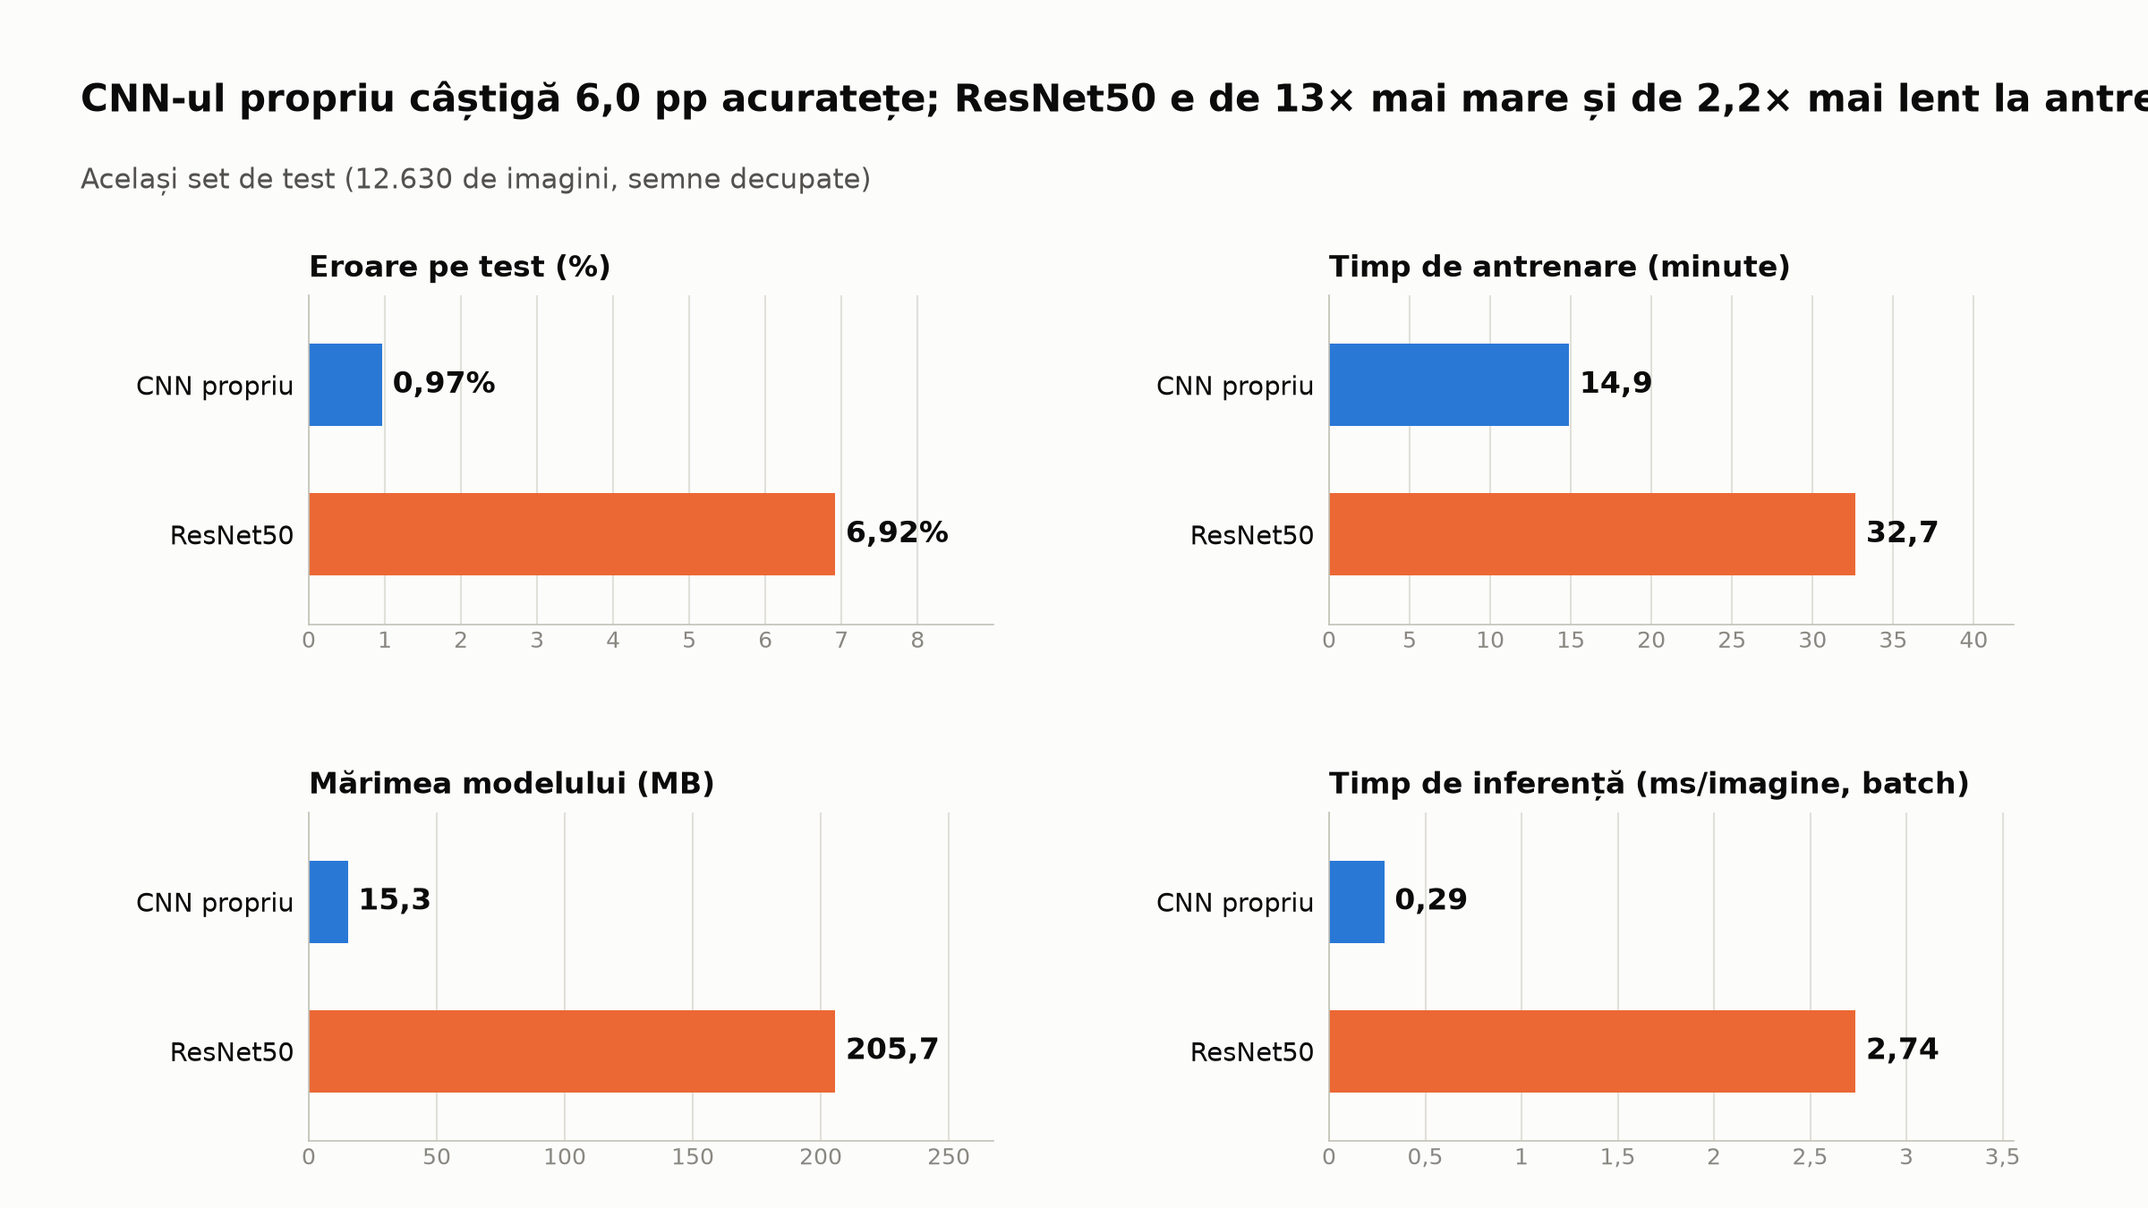
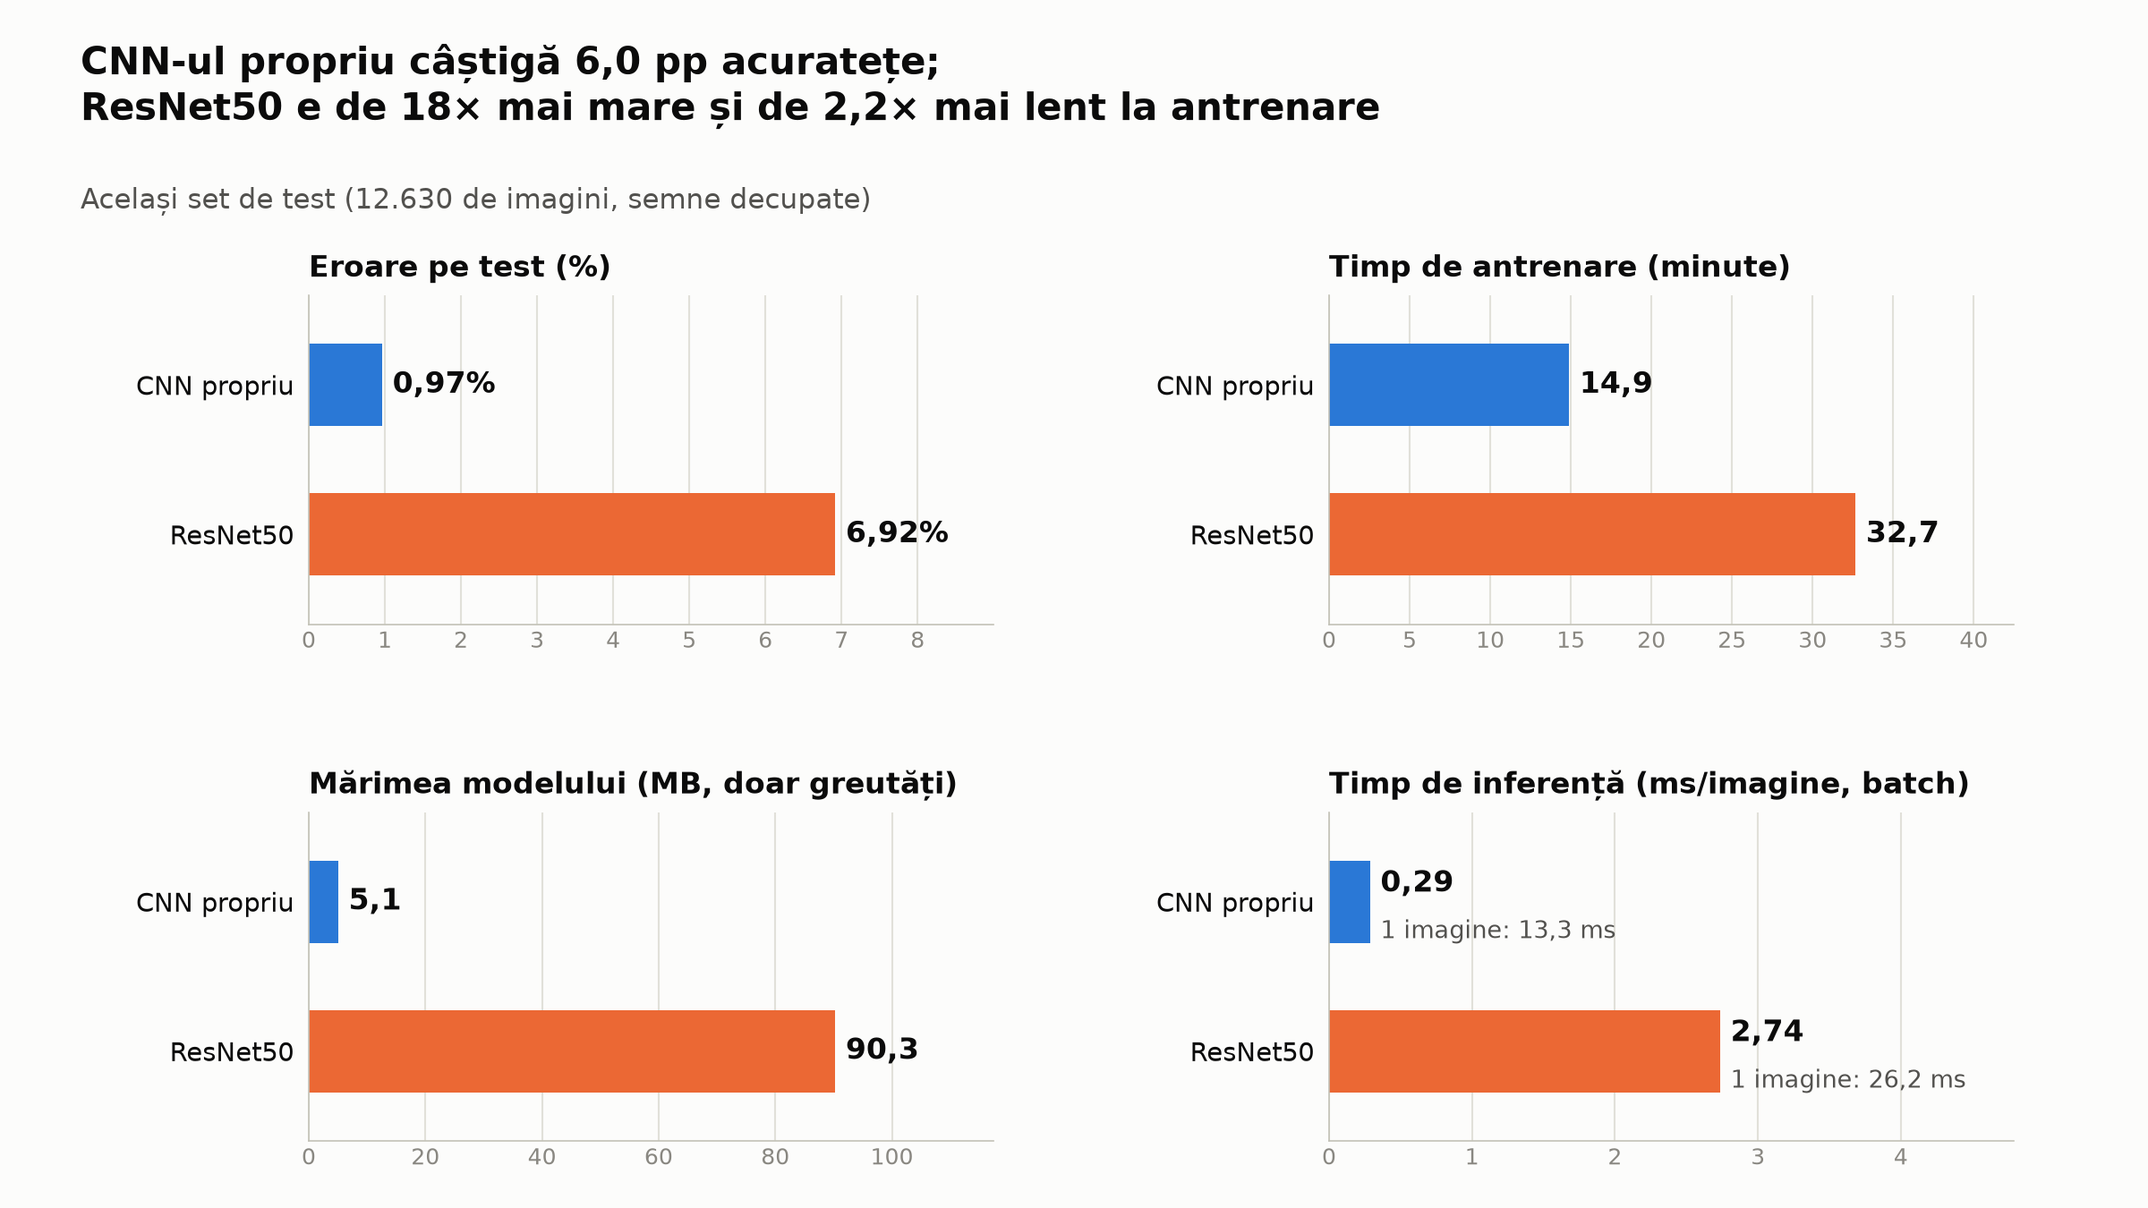
fix: M5 final review (title wrap, weights_mb, stage line in curves, single-image latency, --unfreeze)

diff --git a/src/traffic_signs/comparison.py b/src/traffic_signs/comparison.py
@@ -11,9 +11,9 @@ from matplotlib.ticker import FuncFormatter
 
 from traffic_signs.presentation import BG, BLUE, GRID, INK, INK2, ORANGE, W, H, _save, _style_axes
 
-COLUMNS = ["model", "test_accuracy", "f1_macro", "params", "trainable_params", "model_mb",
-           "train_minutes", "epochs_run", "ms_per_image_batch", "ms_per_image_single"]
-_MB = 1024 * 1024  # mărimea fișierului în MiB
+COLUMNS = ["model", "test_accuracy", "f1_macro", "params", "trainable_params", "weights_mb",
+           "file_mb", "train_minutes", "epochs_run", "ms_per_image_batch", "ms_per_image_single"]
+_MB = 1024 * 1024  # MiB
 _NAMES = {"cnn": "CNN propriu", "resnet": "ResNet50", "resnet50": "ResNet50"}
 
 
@@ -34,7 +34,9 @@ def model_comparison_table(entries: list[dict]) -> pd.DataFrame:
             "f1_macro": metrics["f1_macro"],
             "params": cfg["params"],
             "trainable_params": cfg.get("trainable_params", cfg["params"]),
-            "model_mb": (run_dir / "model.keras").stat().st_size / _MB,
+            "weights_mb": cfg["params"] * 4 / _MB,  # greutăți float32, fără starea optimizatorului
+            # fișierul .keras include și starea Adam (de ~2 ori numărul de greutăți)
+            "file_mb": (run_dir / "model.keras").stat().st_size / _MB,
             "train_minutes": cfg["train_seconds"] / 60,
             "epochs_run": cfg["epochs_run"],
             "ms_per_image_batch": metrics["ms_per_image_batch"],
@@ -74,7 +76,7 @@ def comparison_title(table: pd.DataFrame, cnn_label: str = "cnn",
     else:
         head = f"CNN-ul propriu câștigă {_ro(-diff_pp, dec)} pp acuratețe"
 
-    size = res["model_mb"] / cnn["model_mb"]
+    size = res["weights_mb"] / cnn["weights_mb"]
     time = res["train_minutes"] / cnn["train_minutes"]
     size_txt = (f"e de {_times(size)} mai mare" if size >= 1.05 else
                 f"e de {_times(1 / size)} mai mic" if size <= 1 / 1.05 else "are aceeași mărime")
@@ -91,24 +93,40 @@ def comparison_title(table: pd.DataFrame, cnn_label: str = "cnn",
     return f"{head}; ResNet50 {tail}"
 
 
+def split_title(title: str) -> str:
+    """Rupe titlul pe două rânduri la primul „; ” sau „, ” (concluzia sus, costurile jos)."""
+    for sep in ("; ", ", "):
+        head, found, tail = title.partition(sep)
+        if found:
+            return f"{head}{sep.strip()}\n{tail}"
+    return title
+
+
 PANELS = [
     ("error_pct", "Eroare pe test (%)", lambda v: _ro(v, 2) + "%"),
     ("train_minutes", "Timp de antrenare (minute)", lambda v: _ro(v, 1)),
-    ("model_mb", "Mărimea modelului (MB)", lambda v: _ro(v, 1)),
+    ("weights_mb", "Mărimea modelului (MB, doar greutăți)", lambda v: _ro(v, 1)),
     ("ms_per_image_batch", "Timp de inferență (ms/imagine, batch)", lambda v: _ro(v, 2)),
 ]
 
 
 def plot_cnn_vs_resnet(table: pd.DataFrame, out_path: Path, cnn_label: str = "cnn",
                        resnet_label: str = "resnet") -> None:
+    """Desenează și salvează figura de comparație."""
+    _save(build_comparison_figure(table, cnn_label, resnet_label), out_path)
+
+
+def build_comparison_figure(table: pd.DataFrame, cnn_label: str = "cnn",
+                            resnet_label: str = "resnet"):
     """Patru panouri de bare orizontale, fiecare cu axa ei; rândurile se aleg după etichetă."""
-    title_txt = comparison_title(table, cnn_label, resnet_label)
+    title_txt = split_title(comparison_title(table, cnn_label, resnet_label))
     table = pd.DataFrame([_pick(table, cnn_label), _pick(table, resnet_label)]).reset_index(drop=True)
     table["error_pct"] = (1 - table["test_accuracy"].astype(float)) * 100
     fig = plt.figure(figsize=(W, H), facecolor=BG)
-    fig.text(0.6 / W, 1 - 0.75 / H, title_txt, fontsize=20, fontweight="bold",
-             color=INK, ha="left", va="center")
-    fig.text(0.6 / W, 1 - 1.35 / H, "Același set de test (12.630 de imagini, semne decupate)",
+    title = fig.text(0.6 / W, 1 - 0.3 / H, title_txt, fontsize=20, fontweight="bold",
+                      color=INK, ha="left", va="top", linespacing=1.25)
+    fig.title_text = title  # pentru verificarea în teste că încape în figură
+    fig.text(0.6 / W, 1 - 1.5 / H, "Același set de test (12.630 de imagini, semne decupate)",
              fontsize=15, color=INK2, ha="left", va="center")
     n = len(table)
     names = [_NAMES.get(m, m) for m in table["model"]]
@@ -122,9 +140,16 @@ def plot_cnn_vs_resnet(table: pd.DataFrame, out_path: Path, cnn_label: str = "cn
         vals = table[col].astype(float).tolist()
         ys = list(range(n))[::-1]
         ax.barh(ys, vals, height=0.55, color=colors, zorder=2)
-        top = max(vals) * 1.3 if max(vals) > 0 else 1
+        top = max(vals) * (1.75 if col == "ms_per_image_batch" else 1.3) if max(vals) > 0 else 1
         ax.xaxis.set_major_formatter(FuncFormatter(lambda v, _: _ro(v, 0 if v == int(v) else 1)))
-        for y, v in zip(ys, vals):
+        single = table["ms_per_image_single"].astype(float).tolist()
+        for k, (y, v) in enumerate(zip(ys, vals)):
+            if col == "ms_per_image_batch":  # sub valoare: latența pe o singură imagine
+                ax.text(v + top * 0.015, y + 0.12, fmt(v), fontsize=16, fontweight="bold",
+                        color=INK, ha="left", va="center", zorder=3)
+                ax.text(v + top * 0.015, y - 0.2, f"1 imagine: {_ro(single[k], 1)} ms",
+                        fontsize=13, color=INK2, ha="left", va="center", zorder=3)
+                continue
             ax.text(v + top * 0.015, y, fmt(v), fontsize=16, fontweight="bold", color=INK,
                     ha="left", va="center", zorder=3)
         ax.set_yticks(ys, names)
@@ -134,4 +159,4 @@ def plot_cnn_vs_resnet(table: pd.DataFrame, out_path: Path, cnn_label: str = "cn
         ax.xaxis.grid(True, color=GRID, lw=1, zorder=0)
         ax.tick_params(axis="x", labelsize=12)
         ax.set_title(title, fontsize=16, fontweight="bold", color=INK, loc="left", pad=10)
-    _save(fig, out_path)
+    return fig

diff --git a/scripts/evaluate.py b/scripts/evaluate.py
@@ -1,4 +1,8 @@
-"""Evalueaza un run pe setul de test; scrie rezultatele in runs/<nume> si reports/m4/<nume>."""
+"""Evalueaza un run pe setul de test; scrie rezultatele in runs/<nume> si <out>/<nume>.
+
+<out> se alege cu --out (implicit reports/m4; pentru ResNet50 se foloseste reports/m5).
+Cu --curves-only se regenereaza doar curbele de antrenare, fara reevaluare.
+"""
 import argparse
 import json
 import shutil
@@ -38,6 +42,23 @@ def ms_per_image_single(model, df, crop: bool, image_size: int, count: int = 50)
     return (time.perf_counter() - start) / len(images) * 1000
 
 
+# Nume afisabile pentru titlul curbelor; fallback pe id-ul run-ului
+DISPLAY_NAMES = {"resnet50": "ResNet50", "baseline": "CNN propriu — de bază",
+                 "no_reg": "CNN propriu — fără regularizare",
+                 "no_crop": "CNN propriu — fără decupare"}
+
+
+def curves_title(run_name: str) -> str:
+    return f"Curbe de antrenare: {DISPLAY_NAMES.get(run_name, run_name)}"
+
+
+def write_curves(run_dir, out_dir, run_name: str) -> None:
+    """Deseneaza curbele din history.csv in run_dir si le copiaza in out_dir."""
+    plot_history(load_history(run_dir), run_dir / "curves.png", curves_title(run_name))
+    out_dir.mkdir(parents=True, exist_ok=True)
+    shutil.copy2(run_dir / "curves.png", out_dir / "curves.png")
+
+
 def main() -> None:
     parser = argparse.ArgumentParser(description=__doc__)
     parser.add_argument("--run-name", required=True)
@@ -45,6 +66,8 @@ def main() -> None:
                         help="evalueaza pe imagini nedecupate")
     parser.add_argument("--out", default="reports/m4",
                         help="folder (relativ la radacina proiectului) pentru rezultate")
+    parser.add_argument("--curves-only", action="store_true",
+                        help="regenereaza doar curves.png (fara reevaluare)")
     args = parser.parse_args()
 
     run_dir = config.PROJECT_ROOT / "runs" / args.run_name
@@ -52,6 +75,10 @@ def main() -> None:
         sys.exit(f"Eroare: rularea '{args.run_name}' este incompletă "
                  f"(lipsește config.json sau model.keras în {run_dir}). "
                  "Antrenarea a fost probabil întreruptă; rulați-o din nou.")
+    if args.curves_only:
+        write_curves(run_dir, config.PROJECT_ROOT / args.out / args.run_name, args.run_name)
+        print(f"curbe salvate in {run_dir} si {config.PROJECT_ROOT / args.out / args.run_name}")
+        return
     run_cfg = json.loads((run_dir / "config.json").read_text(encoding="utf-8"))
     trained_crop = not run_cfg.get("no_crop", False)
     crop = trained_crop and not args.no_crop
@@ -73,8 +100,7 @@ def main() -> None:
     plot_confusion_matrix(y_true, y_pred, run_dir / names[2])
     plot_misclassified(test_df, y_true, y_pred, probs, run_dir / names[3], crop=crop)
     if not suffix:  # curbele nu depind de decupare
-        history = load_history(run_dir)
-        plot_history(history, run_dir / "curves.png", f"Curbe de antrenare: {args.run_name}")
+        plot_history(load_history(run_dir), run_dir / "curves.png", curves_title(args.run_name))
         names.append("curves.png")
 
     out_dir = config.PROJECT_ROOT / args.out / args.run_name

diff --git a/tests/test_comparison.py b/tests/test_comparison.py
@@ -45,7 +45,10 @@ def test_comparison_table(entries):
     assert list(t.columns) == COLUMNS
     cnn, res = t.iloc[0], t.iloc[1]
     assert cnn["model"] == "cnn" and res["model"] == "resnet"
-    assert cnn["model_mb"] == pytest.approx(2.0) and res["model_mb"] == pytest.approx(36.0)
+    assert cnn["file_mb"] == pytest.approx(2.0) and res["file_mb"] == pytest.approx(36.0)
+    assert cnn["weights_mb"] == pytest.approx(1_000_000 * 4 / 2**20)
+    assert res["weights_mb"] == pytest.approx(23_000_000 * 4 / 2**20)
+    assert "model_mb" not in t.columns
     assert cnn["train_minutes"] == pytest.approx(10.0)
     assert res["train_minutes"] == pytest.approx(120.0)
     assert cnn["test_accuracy"] == 0.99 and res["f1_macro"] == 0.99
@@ -108,7 +111,7 @@ def test_title_is_truthful_both_ways(entries):
     from traffic_signs.comparison import comparison_title
     t = model_comparison_table(entries)
     win = comparison_title(t)
-    assert "ResNet50 câștigă 0,5 pp" in win and "de 18× mai mare" in win
+    assert "ResNet50 câștigă 0,5 pp" in win and "de 23× mai mare" in win
     assert "de 12× mai lent la antrenare" in win
     t.loc[1, "test_accuracy"] = 0.98
     lose = comparison_title(t)
@@ -116,7 +119,7 @@ def test_title_is_truthful_both_ways(entries):
 
 
 def _row(model, acc, mb, minutes):
-    return {"model": model, "test_accuracy": acc, "model_mb": mb, "train_minutes": minutes}
+    return {"model": model, "test_accuracy": acc, "weights_mb": mb, "train_minutes": minutes}
 
 
 def _tbl(res_acc, res_mb, res_min):
@@ -170,3 +173,19 @@ def test_default_figure_path_and_relative_out(tmp_path, monkeypatch):
     _populate(tmp_path / "reports" / "m4")
     assert len(mod.export_m4_figures("reports/m4")) == 4  # cale relativa
     assert mod.export_m4_figures("reports/m5") == []
+
+
+def test_title_fits_in_figure(entries):
+    import matplotlib.pyplot as plt
+    from traffic_signs.comparison import build_comparison_figure
+    t = model_comparison_table(entries)
+    t.loc[1, "test_accuracy"] = 0.97  # varianta cu titlul cel mai lung
+    fig = build_comparison_figure(t)
+    fig.canvas.draw()
+    box = fig.title_text.get_window_extent()
+    assert "\n" in fig.title_text.get_text()
+    assert fig.bbox.x0 <= box.x0 and box.x1 <= fig.bbox.x1
+    assert fig.bbox.y0 <= box.y0 and box.y1 <= fig.bbox.y1
+    sub = [x for x in fig.texts if x is not fig.title_text][0].get_window_extent()
+    assert box.y0 >= sub.y1  # nu se suprapune cu subtitlul
+    plt.close(fig)

diff --git a/scripts/train_resnet.py b/scripts/train_resnet.py
@@ -1,13 +1,17 @@
 """Antreneaza ResNet50 in doua etape (cap, apoi conv5_); salveaza in runs/<nume>."""
 import argparse
+from functools import partial
 
 from traffic_signs import config
 from traffic_signs.augmentation import compute_class_weights
-from traffic_signs.models import build_resnet50
+from traffic_signs.models import build_resnet50, unfreeze_top
 from traffic_signs.pipeline import make_dataset
 from traffic_signs.reproducibility import set_global_seed
 from traffic_signs.split import load_split
 from traffic_signs.training import train_two_stage
+
+
+UNFREEZE_PREFIXES = {"conv5": ("conv5_",), "conv4+conv5": ("conv4_", "conv5_")}
 
 
 def main() -> None:
@@ -15,6 +19,8 @@ def main() -> None:
     parser.add_argument("--run-name", default="resnet50")
     parser.add_argument("--stage1-epochs", type=int, default=5)
     parser.add_argument("--stage2-epochs", type=int, default=10)
+    parser.add_argument("--unfreeze", choices=list(UNFREEZE_PREFIXES), default="conv5",
+                        help="blocurile dezghetate in etapa 2")
     parser.add_argument("--no-class-weights", action="store_true")
     args = parser.parse_args()
 
@@ -33,7 +39,9 @@ def main() -> None:
         model, train_ds, val_ds, run_dir,
         stage1={"epochs": args.stage1_epochs, "learning_rate": 1e-3, "patience": 2},
         stage2={"epochs": args.stage2_epochs, "learning_rate": 1e-4, "patience": 3},
-        class_weight=weights, run_config=vars(args))
+        class_weight=weights,
+        unfreeze=partial(unfreeze_top, prefix=UNFREEZE_PREFIXES[args.unfreeze]),
+        run_config=vars(args))
     best = history[history["stage"] == 2].pipe(lambda h: h.loc[h["val_loss"].idxmin()])
     print(f"cea mai buna epoca: {int(best['epoch'])}, "
           f"acuratete validare: {best['val_accuracy']:.4f}")

diff --git a/src/traffic_signs/evaluation.py b/src/traffic_signs/evaluation.py
@@ -66,8 +66,12 @@ def _save(fig, out_path: Path) -> None:
     plt.close(fig)
 
 
-def plot_history(history: pd.DataFrame, out_path: Path, title: str) -> None:
-    """Curbe loss si acuratete (antrenare vs. validare), cu epoca cea mai buna."""
+def plot_history(history: pd.DataFrame, out_path: Path, title: str,
+                 stage_label: str = "dezghețare conv5") -> None:
+    """Curbe loss si acuratete (antrenare vs. validare), cu epoca cea mai buna.
+
+    Daca istoricul are coloana `stage`, marcheaza trecerea intre etape cu o linie verticala.
+    """
     best = int(history.loc[history["val_loss"].idxmin(), "epoch"])
     fig, axes = plt.subplots(1, 2, figsize=(16, 6))
     for ax, key, label in ((axes[0], "loss", "Pierdere (loss)"),
@@ -77,6 +81,9 @@ def plot_history(history: pd.DataFrame, out_path: Path, title: str) -> None:
         if key == "loss":
             ax.set_yscale("log")
         ax.axvline(best, color="gray", linestyle="--", label=f"cea mai bună epocă ({best})")
+        if "stage" in history.columns and history["stage"].nunique() > 1:
+            boundary = history.loc[history["stage"] == history["stage"].min(), "epoch"].max() + 0.5
+            ax.axvline(boundary, color="#eb6834", linestyle=":", linewidth=2, label=stage_label)
         ax.xaxis.set_major_locator(MaxNLocator(integer=True))  # epoci intregi
         ax.set_xlabel("Epocă", fontsize=FONT)
         ax.set_ylabel(label, fontsize=FONT)

diff --git a/tests/test_evaluation.py b/tests/test_evaluation.py
@@ -103,3 +103,28 @@ def test_misclassified_limits_two_per_pair(fake_gtsrb, tmp_path):
     conf = np.array([0.9, 0.8, 0.95, 0.7, 0.99])
     idx = select_misclassified(y_true, y_pred, conf, n=16, per_pair=2)
     assert list(idx) == [2, 0, 3]
+
+
+def test_plot_history_marks_stage_boundary(tmp_path, monkeypatch):
+    import matplotlib.pyplot as plt
+    from matplotlib.lines import Line2D
+    history = pd.DataFrame({
+        "epoch": [1, 2, 3, 4], "stage": [1, 1, 2, 2], "loss": [2.0, 1.0, 0.5, 0.4],
+        "accuracy": [0.2, 0.5, 0.8, 0.9], "val_loss": [2.1, 1.2, 1.0, 0.9],
+        "val_accuracy": [0.2, 0.4, 0.5, 0.6], "learning_rate": [1e-3] * 4})
+    captured = []
+    monkeypatch.setattr("traffic_signs.evaluation._save",
+                        lambda fig, path: captured.append(fig))
+    plot_history(history, tmp_path / "c.png", "t")
+    fig = captured[0]
+    for ax in fig.axes:
+        xs = [l.get_xdata()[0] for l in ax.lines if isinstance(l, Line2D)
+              and len(set(l.get_xdata())) == 1]
+        assert 2.5 in xs
+        assert "dezghețare conv5" in ax.get_legend_handles_labels()[1]
+    plt.close(fig)
+    # fara coloana `stage` -> fara linie de etapa
+    plot_history(history.drop(columns="stage"), tmp_path / "d.png", "t")
+    for ax in captured[1].axes:
+        assert "dezghețare conv5" not in ax.get_legend_handles_labels()[1]
+    plt.close(captured[1])

diff --git a/tests/test_resnet.py b/tests/test_resnet.py
@@ -56,6 +56,18 @@ def test_unfreeze_top_keeps_batchnorm_frozen():
     )
 
 
+def test_unfreeze_top_conv4_and_conv5_keeps_batchnorm_frozen():
+    model = build_resnet50(input_size=SIZE, weights=None)
+    assert unfreeze_top(model, prefix=("conv4_", "conv5_")) > unfreeze_top(model)
+    unfreeze_top(model, prefix=("conv4_", "conv5_"))
+    base = model.get_layer("resnet50")
+    conv4 = [l for l in base.layers if l.name.startswith("conv4_") and l.weights
+             and not isinstance(l, layers.BatchNormalization)]
+    assert conv4 and all(l.trainable for l in conv4)
+    assert all(not l.trainable for l in base.layers if isinstance(l, layers.BatchNormalization))
+    assert all(not l.trainable for l in base.layers if l.name.startswith("conv3_"))
+
+
 def test_save_and_reload_same_predictions(shared_model, tmp_path):
     x = np.random.default_rng(2).random((2, SIZE, SIZE, 3), dtype="float32")
     before = shared_model.predict(x, verbose=0)

diff --git a/src/traffic_signs/models.py b/src/traffic_signs/models.py
@@ -79,8 +79,8 @@ def load_trained_model(path: Path) -> keras.Model:
     return keras.models.load_model(path)
 
 
-def unfreeze_top(model: keras.Model, prefix: str = "conv5_") -> int:
-    """Dezgheata straturile bazei cu numele `prefix*`, fara BatchNormalization."""
+def unfreeze_top(model: keras.Model, prefix: str | tuple[str, ...] = "conv5_") -> int:
+    """Dezgheata straturile bazei cu numele `prefix*` (un prefix sau un tuplu), fara BatchNormalization."""
     base = model.get_layer("resnet50")
     base.trainable = True  # altfel trainable-ul straturilor interne nu conteaza
     count = 0
